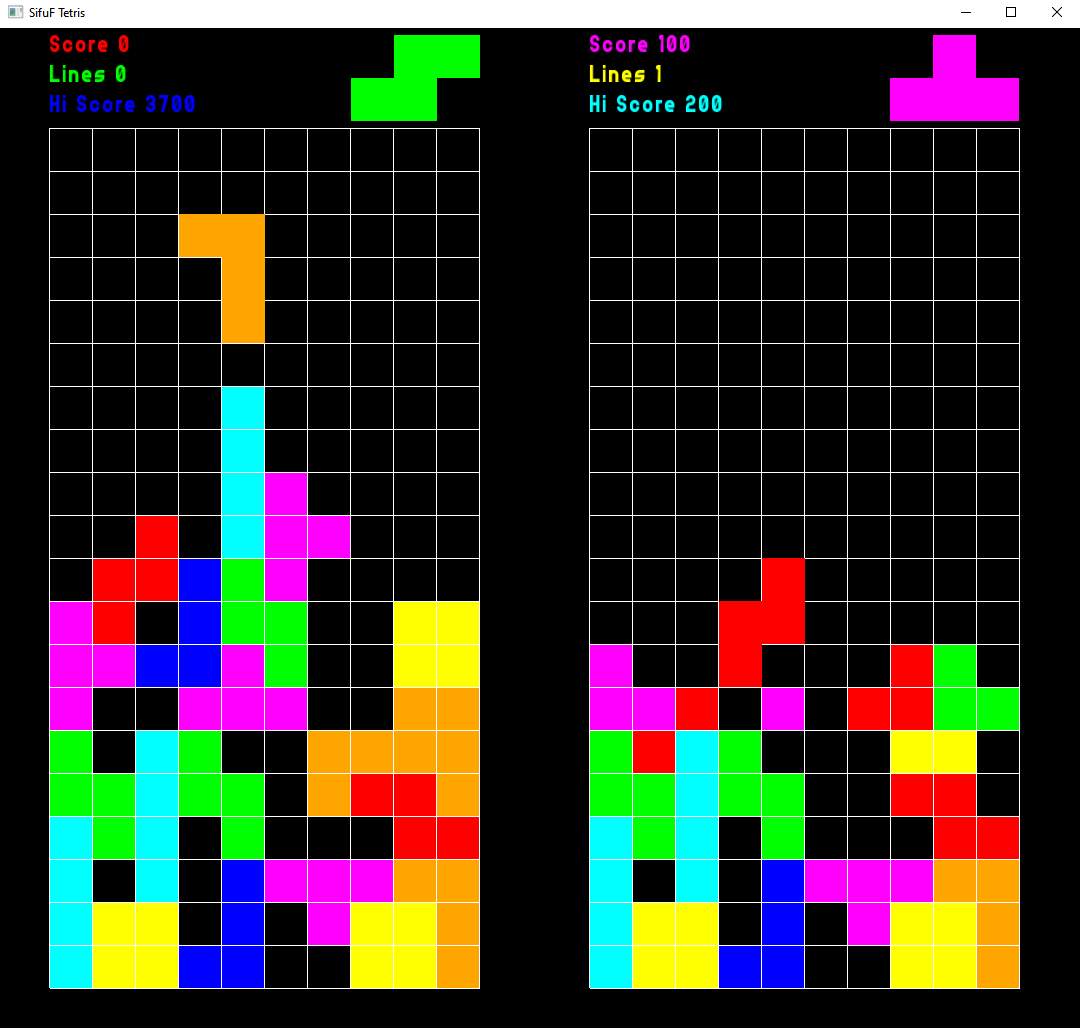
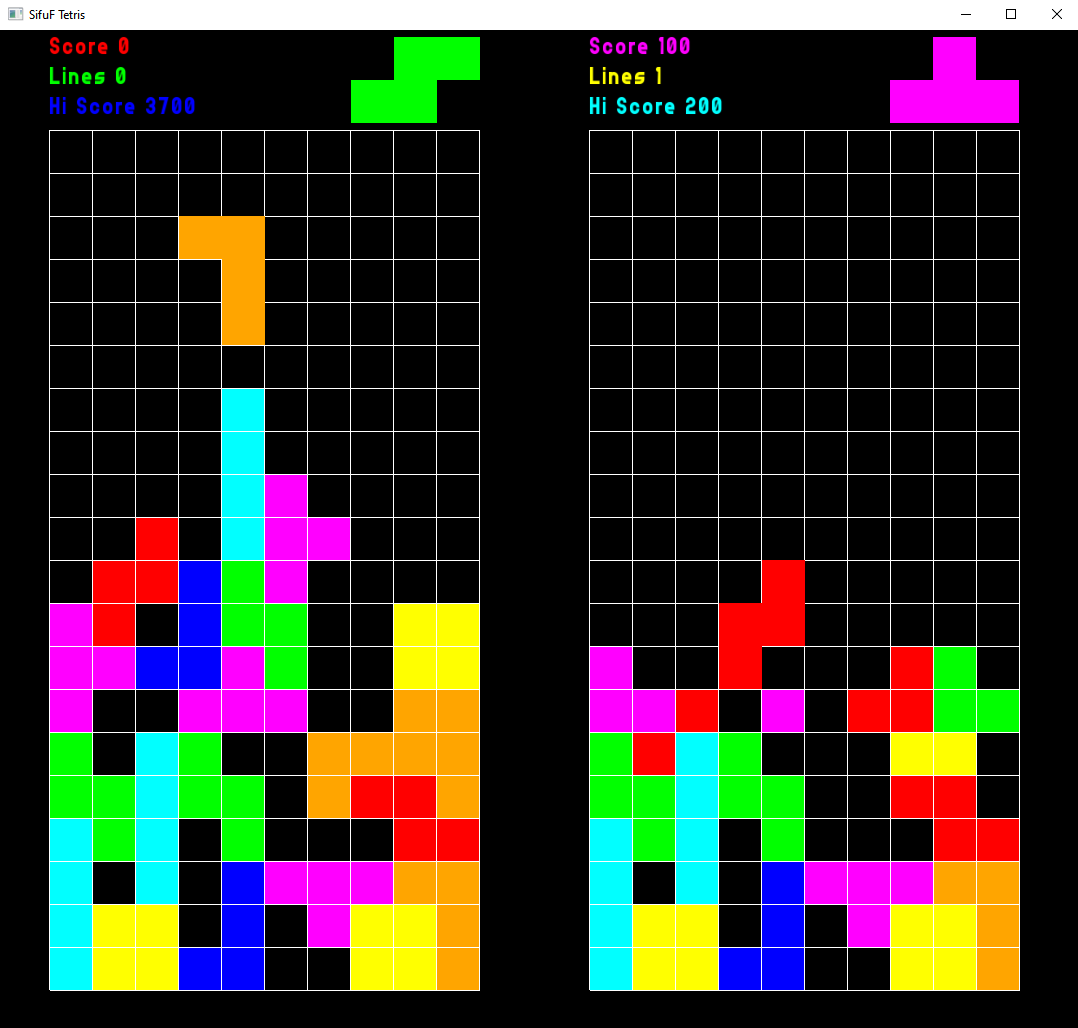
Update README.md

diff --git a/README.md b/README.md
@@ -19,4 +19,11 @@ Right player:
   Drop : Down arrow key
 
 ```
-![Tetris image](img/tetris.png)
+
+For graphical version, keep ```#define GRAPHICS``` before any includes in ```Manager.h```
+
+![Tetris image](img/tetrisG.png)
+
+Comment that line out for barebones look ```//#define GRAPHICS```
+
+![Tetris image2](img/tetris.png)
